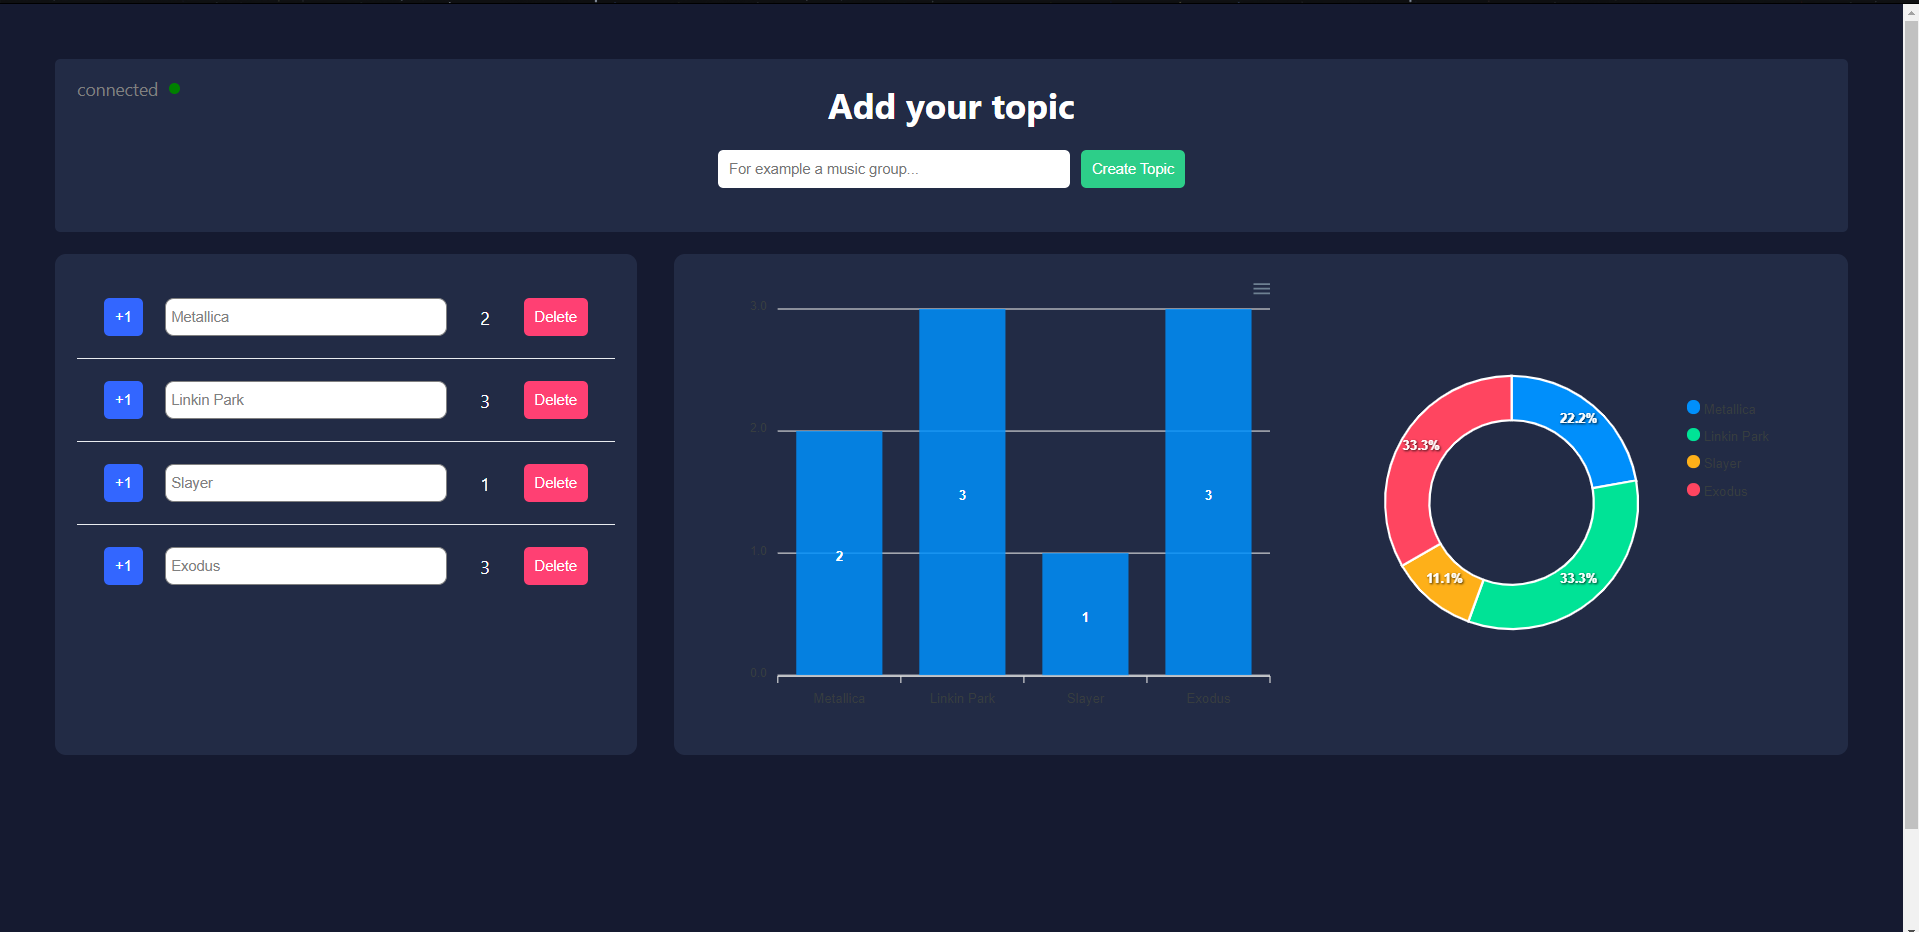
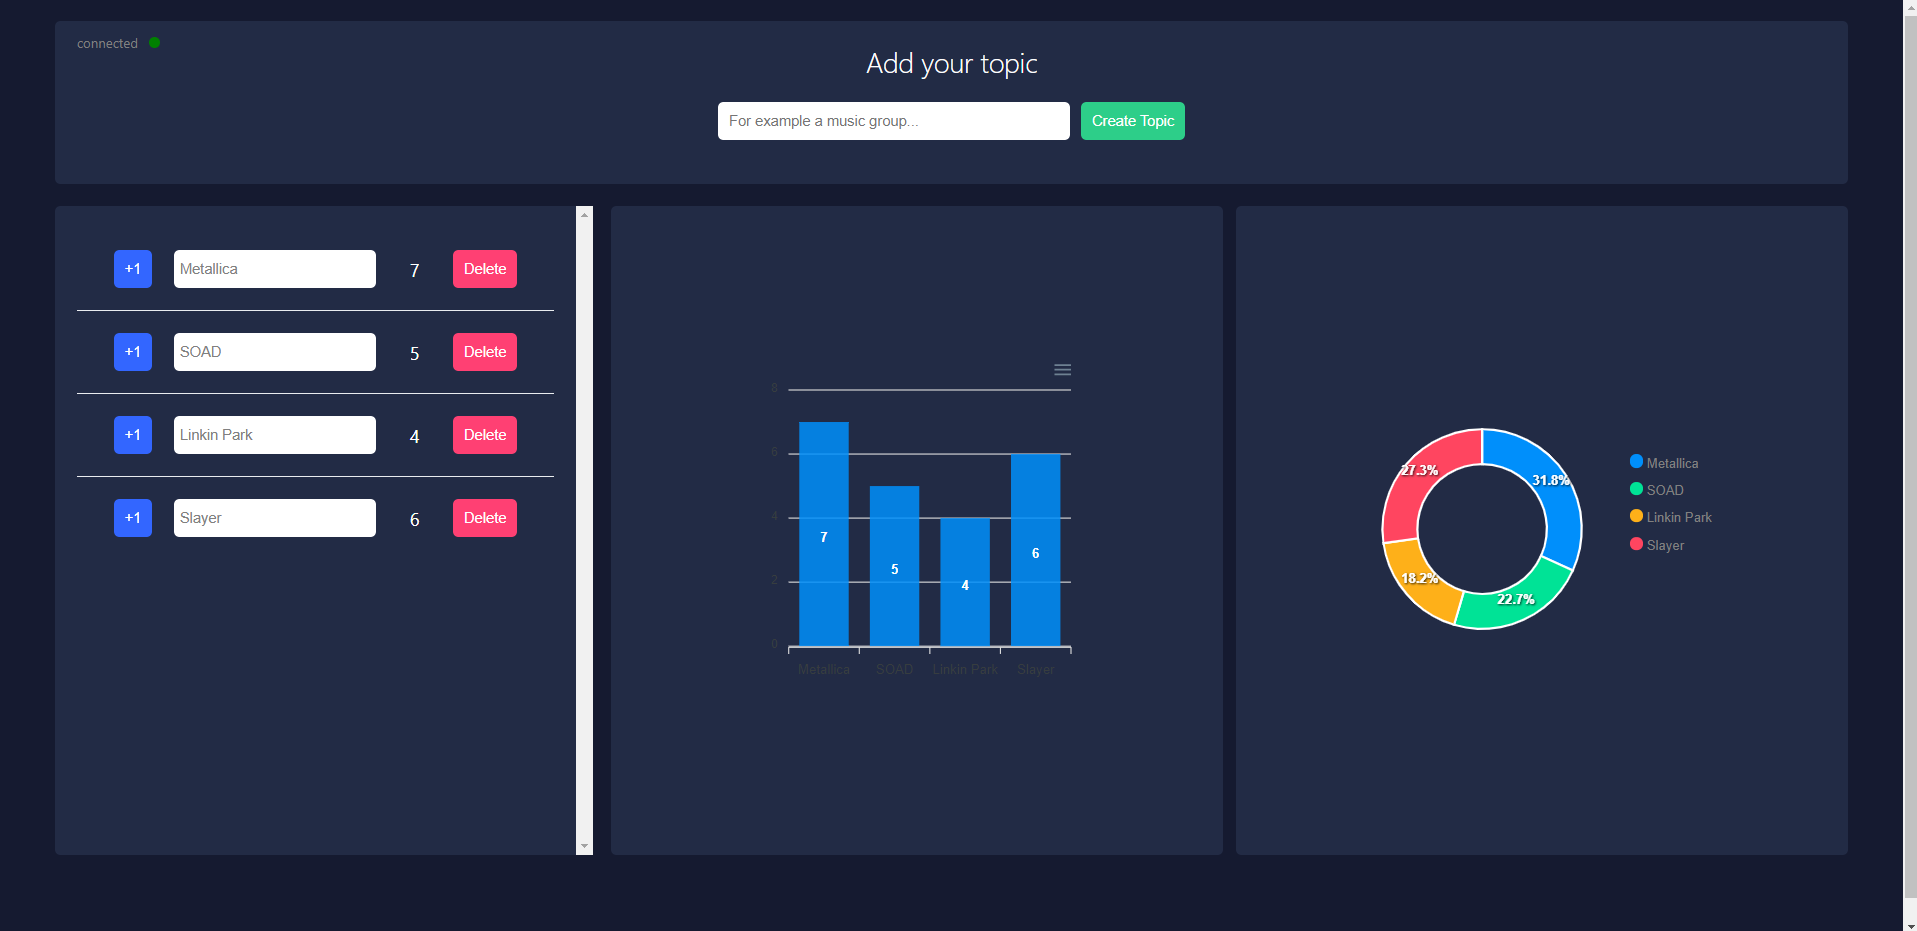
styles and responsive version

diff --git a/src/components/ChartComponent/index.js b/src/components/ChartComponent/index.js
@@ -1,40 +1,33 @@
 import React from "react";
 import Chart from "react-apexcharts";
-// styles
-import Styled from "styled-components";
 import { useChartConfig } from "hooks/useChartConfig";
-
-export const Container = Styled.div`
-  width: 63%;
-  background-color: #222B45;
-  display: flex;
-  justify-content: space-around;
-  align-items: center;
-  padding: 20px;
-  border-radius: 10px;
-  max-height: 500px;
-`;
+// styles
+import { Container, ChartContainer } from "./styles";
 
 export const ChartComponent = () => {
   const { config } = useChartConfig();
 
   return (
     <Container>
-      <Chart
-        options={config.barOptions}
-        series={config.barSeries}
-        type="bar"
-        width={500}
-        height={400}
-      />
-
-      <Chart
-        options={config.pieOptions}
-        series={config.pieSeries}
-        type="donut"
-        width={400}
-        height={400}
-      />
+      <ChartContainer>
+        <Chart
+          options={config.barOptions}
+          series={config.barSeries}
+          type="bar"
+          width={300}
+          height={300}
+        />
+      </ChartContainer>
+      <ChartContainer>
+        <Chart
+          style={{ color: "gray" }}
+          options={config.pieOptions}
+          series={config.pieSeries}
+          type="donut"
+          width={350}
+          height={350}
+        />
+      </ChartContainer>
     </Container>
   );
 };

diff --git a/public/index.html b/public/index.html
@@ -2,14 +2,14 @@
 <html lang="en">
   <head>
     <meta charset="utf-8" />
-    <link rel="icon" href="%PUBLIC_URL%/favicon.ico" />
+    <link rel="icon" href="%PUBLIC_URL%/star.svg" />
     <meta name="viewport" content="width=device-width, initial-scale=1" />
     <meta name="theme-color" content="#000000" />
     <meta
       name="description"
-      content="Web site created using create-react-app"
+      content="Add your topics and vote with your friends in real time"
     />
-    <link rel="apple-touch-icon" href="%PUBLIC_URL%/logo192.png" />
+    <link rel="apple-touch-icon" href="%PUBLIC_URL%/star.svg" />
     <!--
       manifest.json provides metadata used when your web app is installed on a
       user's mobile device or desktop. See https://developers.google.com/web/fundamentals/web-app-manifest/
@@ -24,7 +24,7 @@
       work correctly both with client-side routing and a non-root public URL.
       Learn how to configure a non-root public URL by running `npm run build`.
     -->
-    <title>React App</title>
+    <title>Topic Rate</title>
   </head>
   <body>
     <noscript>You need to enable JavaScript to run this app.</noscript>

diff --git a/src/components/ChartComponent/styles.js b/src/components/ChartComponent/styles.js
@@ -1,0 +1,33 @@
+import Styled from "styled-components";
+
+export const Container = Styled.div`
+  display: grid;
+  grid-template-columns: 49.5% 49.5%;
+  grid-column-gap: 1%;
+  padding: 0px;
+  height: 590px;
+  margin-bottom: 50px;
+  & span{
+    color: gray !important;
+  }
+  & > *{
+    margin: auto;
+  }
+  @media (max-width: 800px) {
+    grid-template-columns: 100%;
+    grid-row-columns: 100%;
+    grid-row-gap: 2%;
+    height: auto;
+    margin-bottom: 50px;
+  } 
+`;
+
+export const ChartContainer = Styled.div`
+  width: 100%;
+  border-radius: 5px;
+  height: 100%;
+  display: flex;
+  align-items: center;
+  justify-content: center;
+  background-color: #222B45;
+`;

diff --git a/src/components/AddBand/styles.js b/src/components/AddBand/styles.js
@@ -13,6 +13,8 @@ export const Container = Styled.form`
     border-radius: 5px;
     & h1{
         margin: 0px 0px 20px 0px;
+        font-size: 25px;
+        font-weight: 100;
     }
     & input{
         border-radius: 5px;
@@ -29,4 +31,17 @@ export const Container = Styled.form`
         cursor: pointer;
         margin-left: 10px;
     }
+    @media (max-width: 600px) {
+        & h1 {
+            margin: 30px 0px 20px 0px;
+            font-size: 15px;
+        }
+        & input{
+            border-radius: 5px;
+            border: none;
+            padding: 12px;
+            width: 50%;
+            font-size: 10px;
+        }
+    } 
 `;

diff --git a/src/components/BandList/index.js b/src/components/BandList/index.js
@@ -2,15 +2,19 @@ import React, { useEffect, useContext, useState } from "react";
 import { Band } from "components/Band";
 // context
 import { SocketContext } from "context/SocketContext";
-
+// styles
 import Styled from "styled-components";
 
 export const Container = Styled.div`
   background-color: #222B45;
-  width: 30%;
-  padding: 20px 20px 20px 20px;
-  border-radius: 10px;
+  padding: 20px;
+  border-radius: 5px;
   color: white;
+  overflow-y: scroll;
+  height: 550px;
+  @media (max-width: 600px) {
+    height: 300px;
+  } 
 `;
 
 export const BandList = () => {

diff --git a/src/pages/HomePage.js b/src/pages/HomePage.js
@@ -8,9 +8,13 @@ import { ConnectedAlert } from "components/ConnectedAlert";
 import Styled from "styled-components";
 
 export const Container = Styled.div`
-  display: flex;
-  justify-content: space-between;
-  width: 100%;
+  display: grid;
+  grid-template-columns: 30% 69%;
+  grid-column-gap: 1%;
+  @media (max-width: 1200px) {
+    grid-template-columns: 100%;
+    grid-row-gap: 1%;
+  } 
 `;
 
 export const HomePage = () => {

diff --git a/src/components/Band/styles.js b/src/components/Band/styles.js
@@ -26,10 +26,10 @@ export const UpVote = Styled.button`
 `;
 
 export const NameInput = Styled.input`
-  border-radius: 8px;
+  border-radius: 5px;
   padding: 5px;
-  border: solid .1px gray;
-  width: 50%;
+  border:  none;
+  min-width: 40%;
   color: gray;
 `;
 

diff --git a/src/index.css b/src/index.css
@@ -7,7 +7,13 @@ body {
   -moz-osx-font-smoothing: grayscale;
   background-color: #151a30;
   height: 100vh;
-  padding: 50px;
+  padding: 20px 50px 0px 50px;
+}
+
+@media (max-width: 600px) {
+  body {
+    padding: 20px 10px 0px 10px;
+  }
 }
 
 code {

diff --git a/src/components/ConnectedAlert/index.js b/src/components/ConnectedAlert/index.js
@@ -10,7 +10,8 @@ const Container = Styled.div`
     align-items: center;
     color: gray;
     padding: 20px;
-    top: 30px;
+    top: 0px;
+    font-size: 12px;
     & div{
         width: 10px;
         height: 10px;
